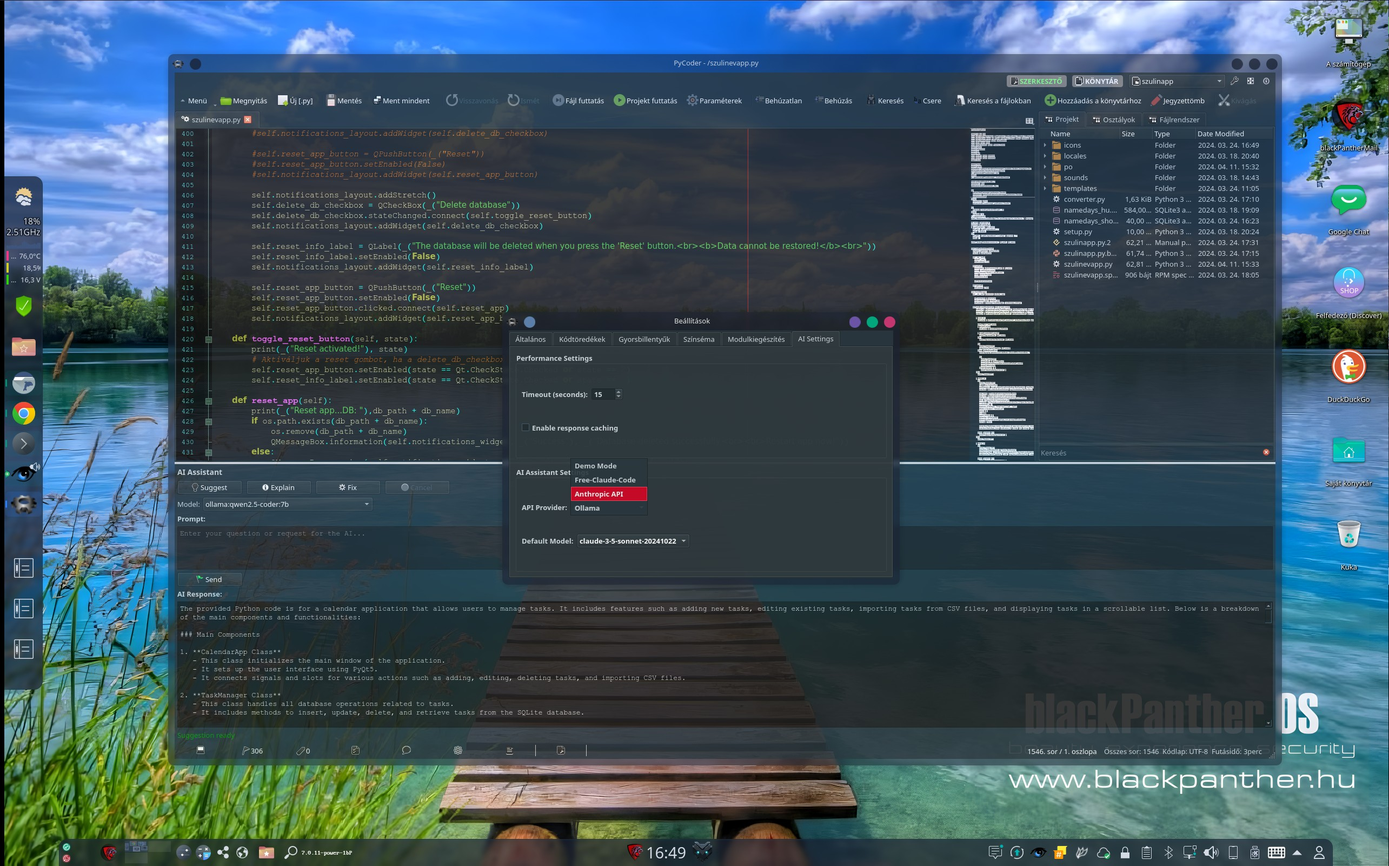
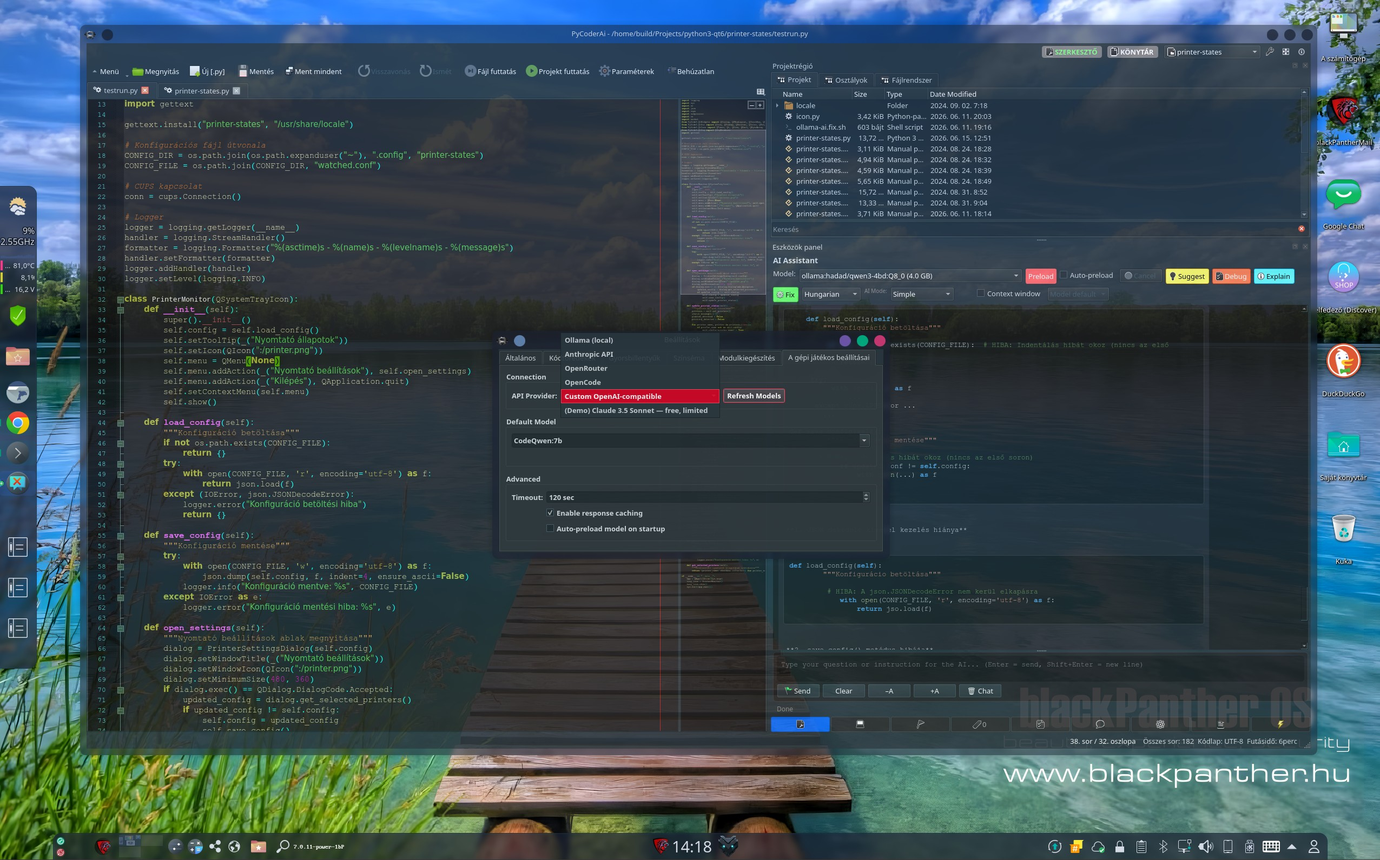
Screenshots up

diff --git a/README.md b/README.md
@@ -53,6 +53,9 @@ Then perhaps:
 ### Icon
 ![Alt text](pycoder.svg "PyCoder Icon")
 
+### Animation
+![Alt text](/Resources/screenshots/pycoderai.gif "PyCoderAi and Ai Settings")
+
 ### Screenshots
 ![Alt text](/Resources/screenshots/PyCoderAi.jpeg "PyCoderAi and Ai Settings on blackPanther OS")
 ![Alt text](/Resources/screenshots/PyCoder6.png "PyCoder6 running without Minimap on blackPanther OS")
